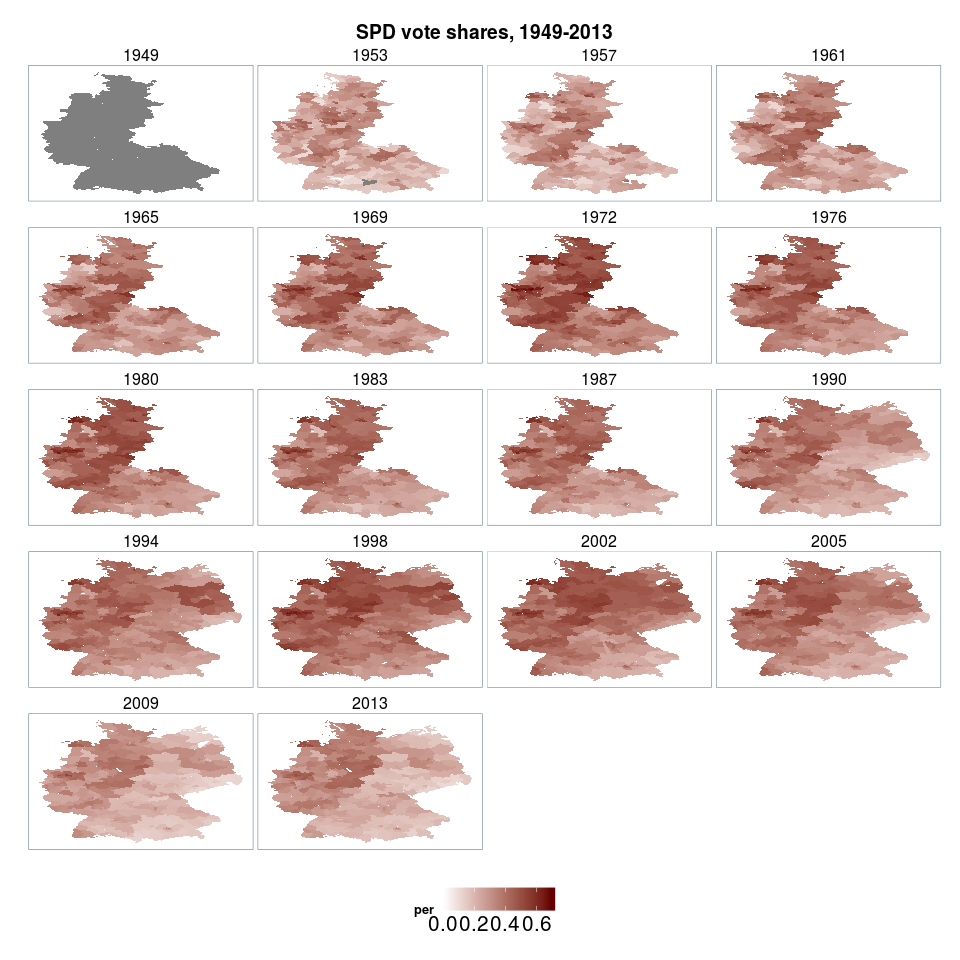
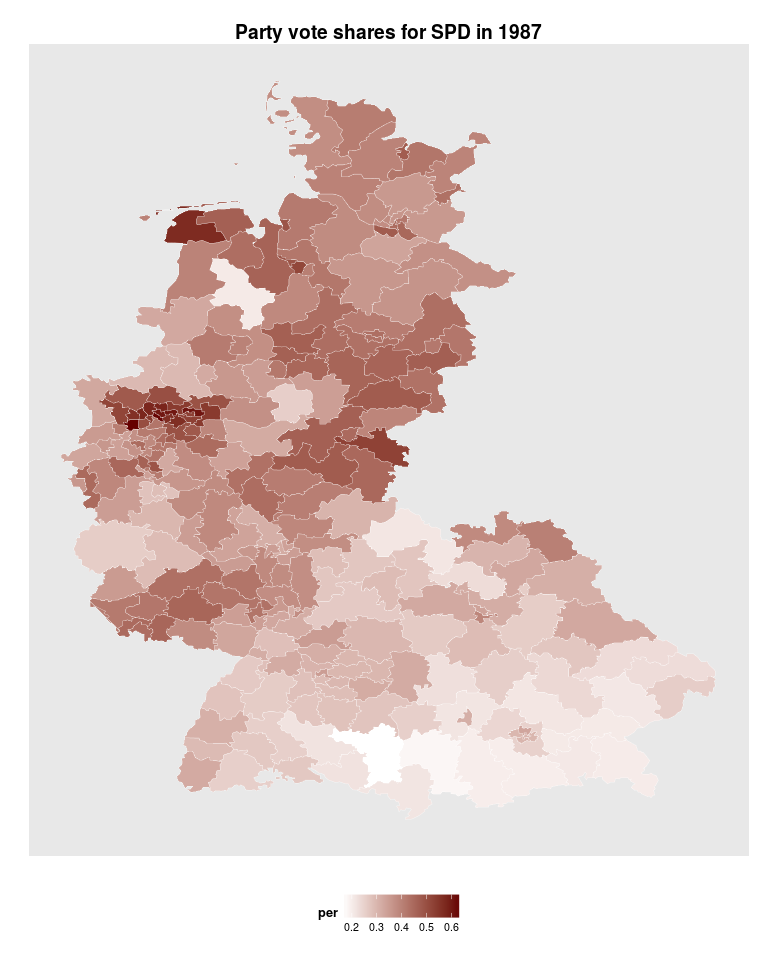
public release 0.1.0

diff --git a/README.md b/README.md
@@ -1,3 +1,4 @@
+
 # About
 This R package contains data sets on German parliamentary elections, from 1949 to 2013. It comprises three seperate data sets: 
 
@@ -8,7 +9,7 @@ This R package contains data sets on German parliamentary elections, from 1949 t
   of electoral districts
   2. Map information in a polygon format (*bt_districts_maps*)
 
-The information was compiled from open information. The associated scripts have   [https://github.com/crubba/Project-Bundestag](on this Github repo). Comma-separated files can be downloaded from [here](http://www.christianrubba.com/projects/projects.html#bundestagswahl).
+Comma-separated/JSON files can be downloaded from [here](http://www.christianrubba.com/projects/projects.html#bundestagswahl).
 
 # Installation & Usage
 The package can be installed from this Github repository:
@@ -23,13 +24,13 @@ To access the data in R type:
 
 
 ```r
-library(bundestagswahl)
+library("bundestagswahl")
 
-data(bt_votes)
-data(bt_candidates)
-data(bt_districts_neighbors)
-data(bt_districts)
-data(bt_districts_maps)
+data("bt_votes")
+data("bt_candidates")
+data("bt_districts_neighbors")
+data("bt_districts")
+data("bt_districts_maps")
 ```
 
 ## Example
@@ -39,29 +40,33 @@ library(dplyr)
 library(ggplot2)
 library(crmisc)
 
-bt_votes_spd <- filter(bt_votes, party == "SPD")
-gg_df <- left_join(bt_districts_maps, bt_votes_spd, 
-by = c("year" = "year", "wk" = "wk"))
+districts1987 <- subset(bt_districts_maps, year == 1987)
+bt_votes_spd <- filter(bt_votes, party == "SPD", year == 1987, mandate == "pvote") %>%
+  select(., year, wk,  per)
 
-ggplot(data = gg_df, aes(x = long, y = lat, group = wk, fill = per)) + 
-  geom_polygon(colour = NA) + 
-  facet_wrap(~year, ncol = 4) +
-  ggtitle("SPD vote shares, 1949-2013") +
+gg_df <- left_join(districts1987, bt_votes_spd, 
+                   by = c("year" = "year", "wk" = "wk"))
+gg_df$groupid <- paste(gg_df$wk, gg_df$part)
+
+ggplot(data = gg_df, aes(x = long, y = lat, group = groupid, fill = per)) + 
+  geom_polygon(colour = "white", size = 0.1) + 
+  ggtitle("Party vote shares for SPD in 1987") +
   scale_fill_gradient(low = "white", high = "#660000") +
-  theme_cr_map()
+  xlab("") + ylab("") +
+  theme_cr_map() + 
+  theme(legend.text = element_text(size = 8),
+        panel.border = element_blank(),
+        panel.background = element_rect(fill = "#E8E8E8", colour = NA))
 ```
 
 ![](README_files/figure-html/unnamed-chunk-3-1.png) 
 
-
-# License
-
 # Citation
-If you use the datasets provided through this package, please consider citing it. Once installed, type
+If you use the datasets provided through this package, please consider citing it. To receive citing information type:
 
 
 ```r
 citation("bundestagswahl")
 ```
 
-to receive citation information.
+
